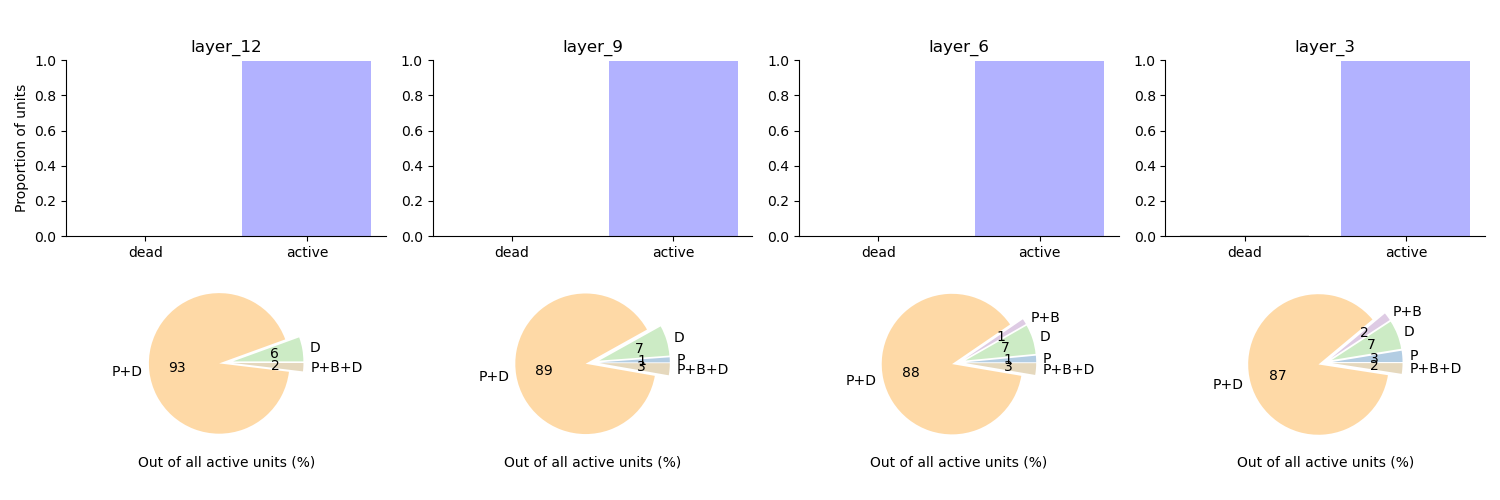
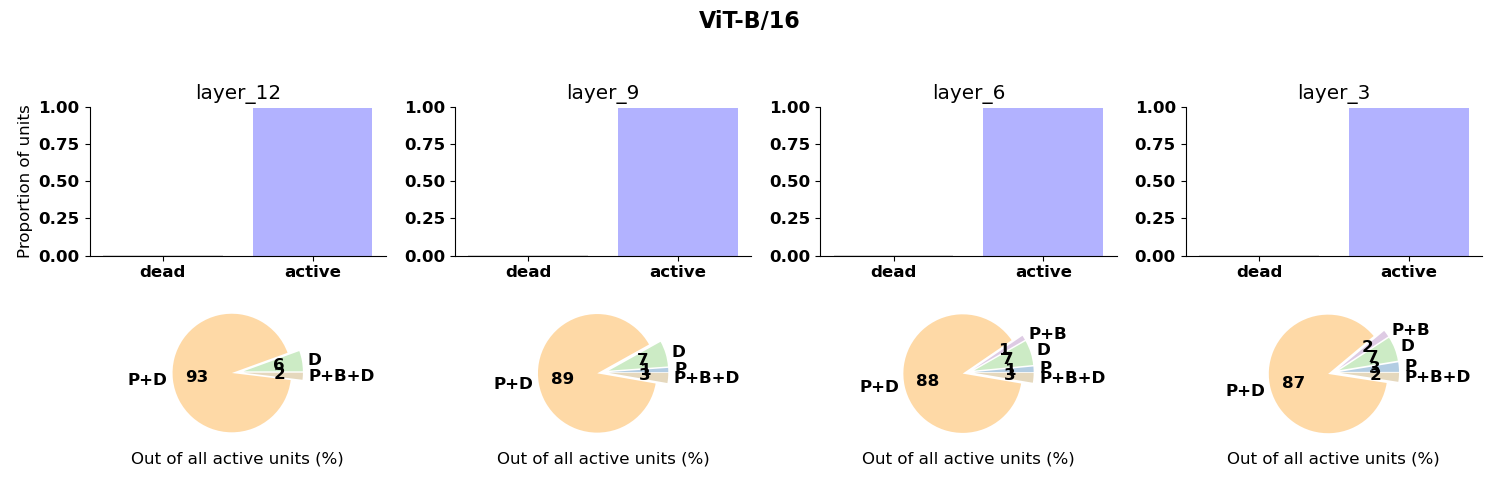
improve figs

diff --git a/figures_paper.py b/figures_paper.py
@@ -1779,6 +1779,10 @@ def unit_chart_visualization_piechart():
             ax[1, col_index].set_xlabel('Out of all active units (%)')
             ax[0, col_index].set_title(output_layer)
             plt.tight_layout(rect=[0, 0.03, 1, 0.95])
+            if model_name == 'vgg16': model_name_plot = 'VGG-16'
+            elif model_name == 'resnet50': model_name_plot = 'ResNet-50'
+            elif model_name == 'vit_b16': model_name_plot = 'ViT-B/16'
+            plt.suptitle(f'{model_name_plot}', fontsize=16, fontweight='bold')
             plt.savefig(f'figs/paper/unit_chart_overlaps_{model_name}.png')
 
 
@@ -1789,5 +1793,5 @@ if __name__ == '__main__':
     # lesion_by_coef_each_model_across_layers_and_lr()
     # lesion_by_unit_chart_each_model_across_layers_and_lr()
     # unit_chart_type_against_coef_each_model_across_layers()
-    unit_visualization_by_type()
-    # unit_chart_visualization_piechart()
+    # unit_visualization_by_type()
+    unit_chart_visualization_piechart()
